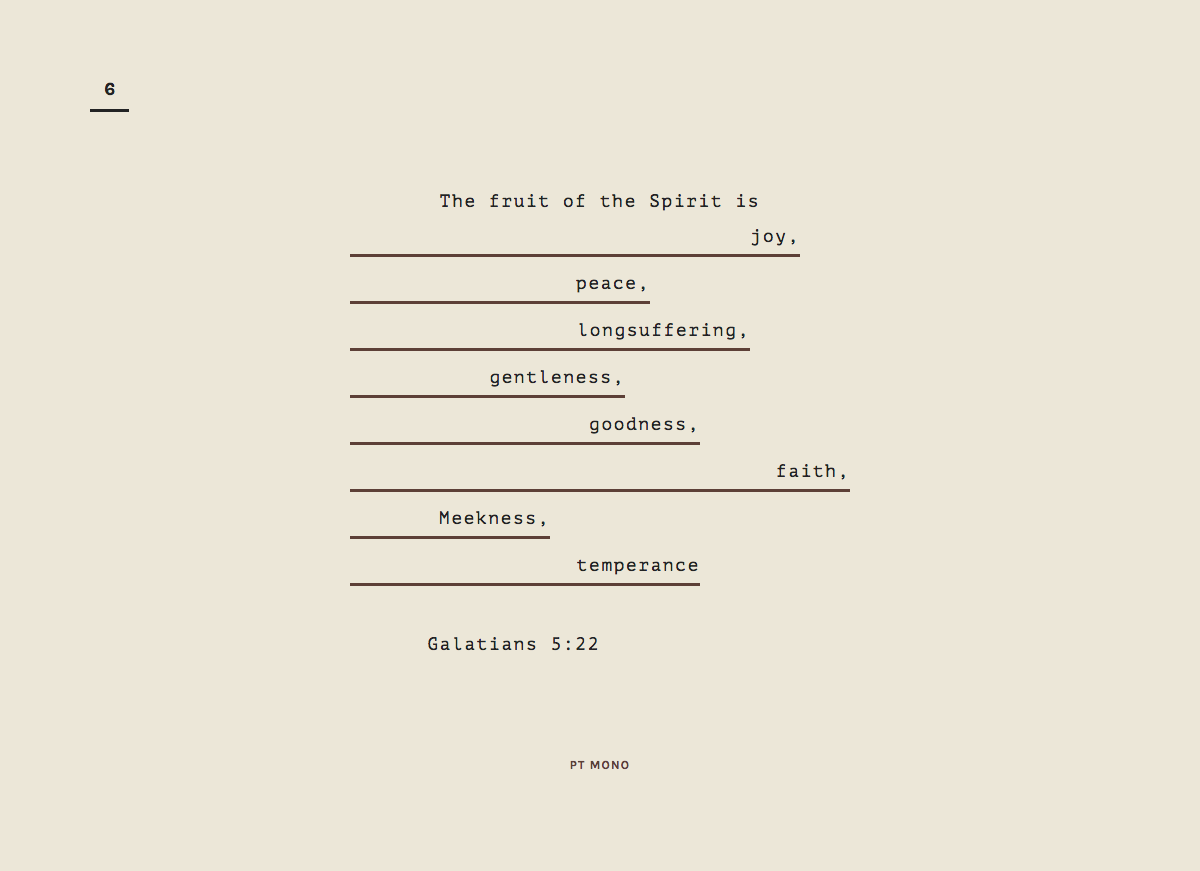
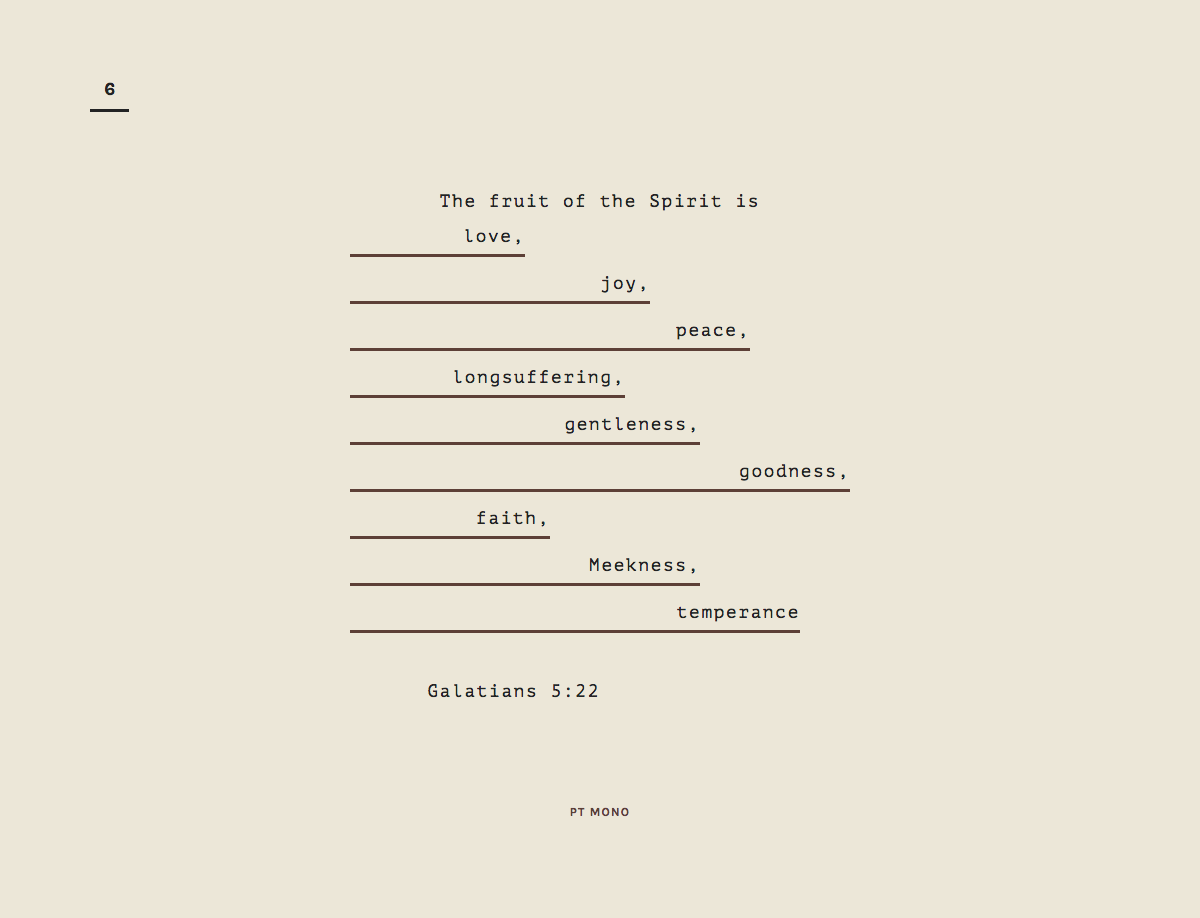
Fix day 6 preview and verse.

Changed region(s): [[0.2775, 0.217, 0.7092, 0.775], [0.4625, 0.868, 0.5242, 0.899], [0.0617, 0.093, 0.1233, 0.124]]

diff --git a/index.html b/index.html
@@ -43,7 +43,7 @@
   <meta property="og:type" content="website">
 
   <meta property="og:description" content="One passage of Scripture, every day, for 100 days.">
-  <meta property="og:image" content="https://jonsuh.com/100-days-of-scriptures/assets/images/day-6.png">
+  <meta property="og:image" content="https://jonsuh.com/100-days-of-scriptures/assets/images/day-6.png?v2">
   <meta property="og:image" content="https://jonsuh.com/100-days-of-scriptures/assets/images/day-5.png">
   <meta property="og:image" content="https://jonsuh.com/100-days-of-scriptures/assets/images/day-4.jpg">
   <meta property="og:image" content="https://jonsuh.com/100-days-of-scriptures/assets/images/day-3.png">
@@ -58,7 +58,7 @@
   <meta name="twitter:url" content="https://jonsuh.com/100-days-of-scriptures/">
   <meta name="twitter:title" content="100 Days of Scriptures">
   <meta name="twitter:description" content="One passage of Scripture, every day, for 100 days.">
-  <meta name="twitter:image:src" content="https://jonsuh.com/100-days-of-scriptures/assets/images/day-6.png">
+  <meta name="twitter:image:src" content="https://jonsuh.com/100-days-of-scriptures/assets/images/day-6.png?v2">
 
   <meta name="mobile-web-app-capable" content="yes">
   <link rel="icon" sizes="192x192" href="https://jonsuh.com/100-days-of-scriptures/icon.png">
@@ -108,7 +108,7 @@
           </ol>
         </div>
         <footer class="day-reference">
-          <cite><a href="https://www.bible.com/bible/1/gal.5.22" class="day-reference-link" class="day-reference-link">Galatians 5:22</a></cite>
+          <cite><a href="https://www.bible.com/bible/1/gal.5.22-23" class="day-reference-link" class="day-reference-link">Galatians 5:22–23</a></cite>
         </footer>
       </blockquote>
     </section>
